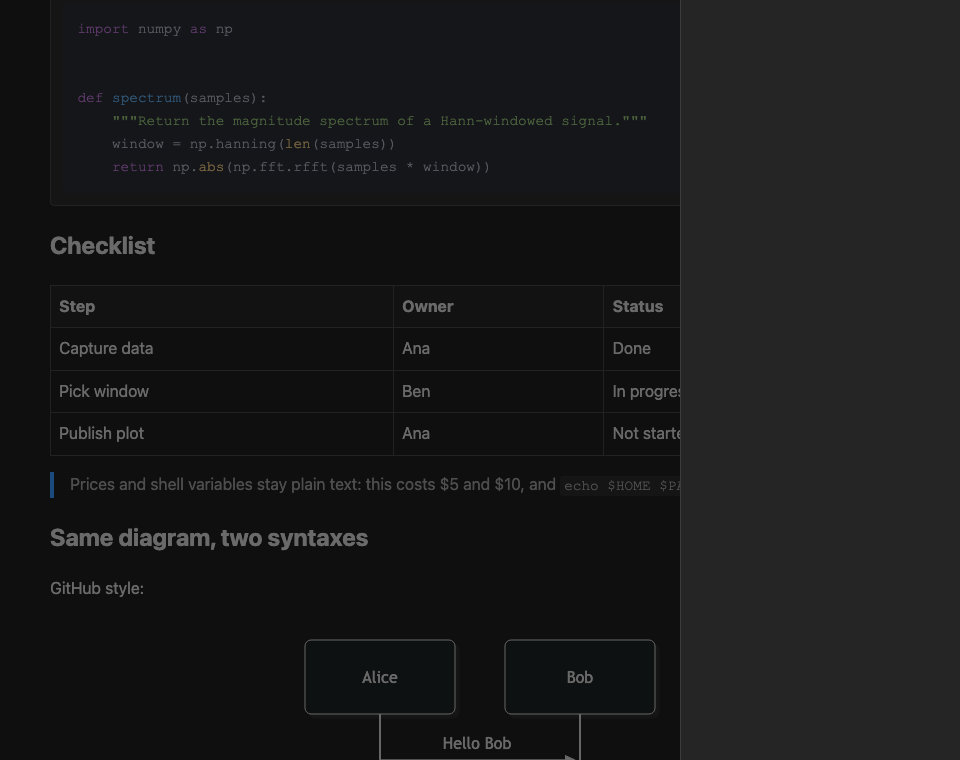
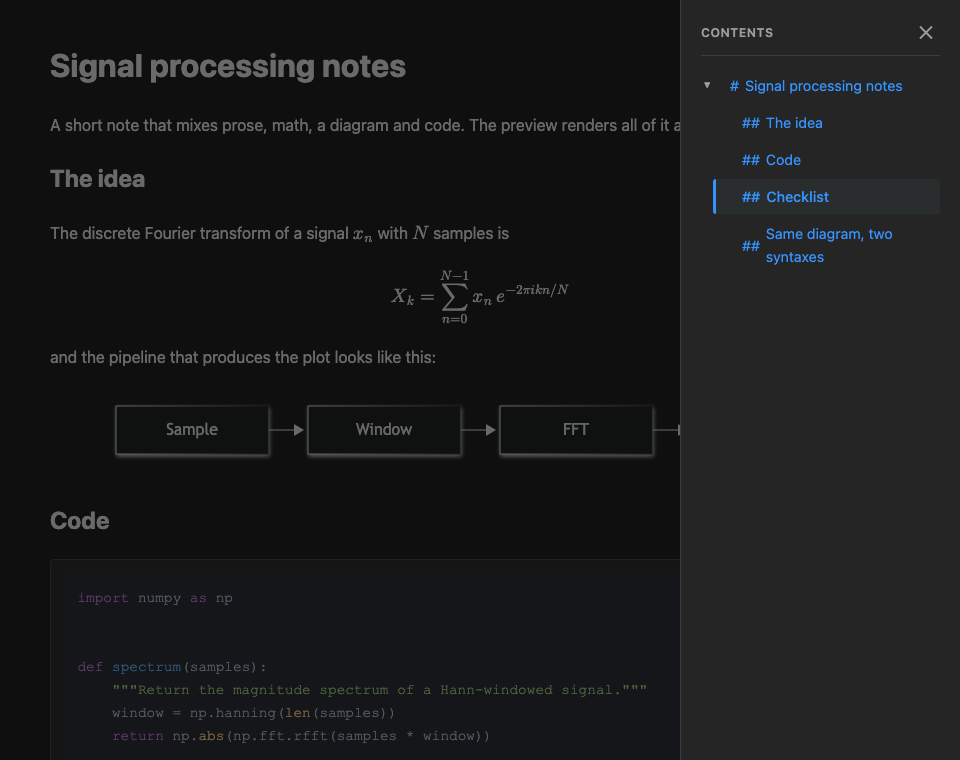
fix(docs): recrop the readme screenshots and test math written inside code
Problem
- Four readme screenshots were cropped from offset 0, which the image tool ignored, so each showed the middle of the page. The sidebar image showed an empty panel.
- The renderer bug that printed placeholder text for math written inside code was covered only by dollar-variable examples, not by the exact forms authors write: `$x$` and `$$ ... $$` in code spans, tables and lists.

Solution
- Recrop the hero, sidebar and two theme images from offset 1, and check each one by eye.
- Add a test with complete math expressions inside code spans in a list, a table and a bullet.

Decisions
- No renderer change: the 1.6.0 bundle already renders these forms as written.

Implementation
- assets/readme-*.png, test/extension.test.js.

Notes
- The vsix was rebuilt. Nothing is pushed or merged.

diff --git a/test/extension.test.js b/test/extension.test.js
@@ -351,6 +351,16 @@ describe("renderMarkdown math", () => {
 		assert.ok(!out.includes("PRESERVED"));
 	});
 
+	it("shows complete math expressions inside code spans as written", () => {
+		const out = html(
+			"1. Writing `$x$` and `$$ math here $$` shows source.\n\n| a |\n| - |\n| `$x$` |\n\n- `$a$ and $b$`\n"
+		);
+		assert.ok(out.includes("<code>$x$</code>"));
+		assert.ok(out.includes("<code>$$ math here $$</code>"));
+		assert.ok(out.includes("<code>$a$ and $b$</code>"));
+		assert.ok(!out.includes("math-") && !out.includes("PRESERVED"));
+	});
+
 	it("does not treat underscores or asterisks in a formula as emphasis", () => {
 		const out = html("$a_b + c_d$ and $a*b*c$");
 		assert.ok(out.includes("\\(a_b + c_d\\)"));
